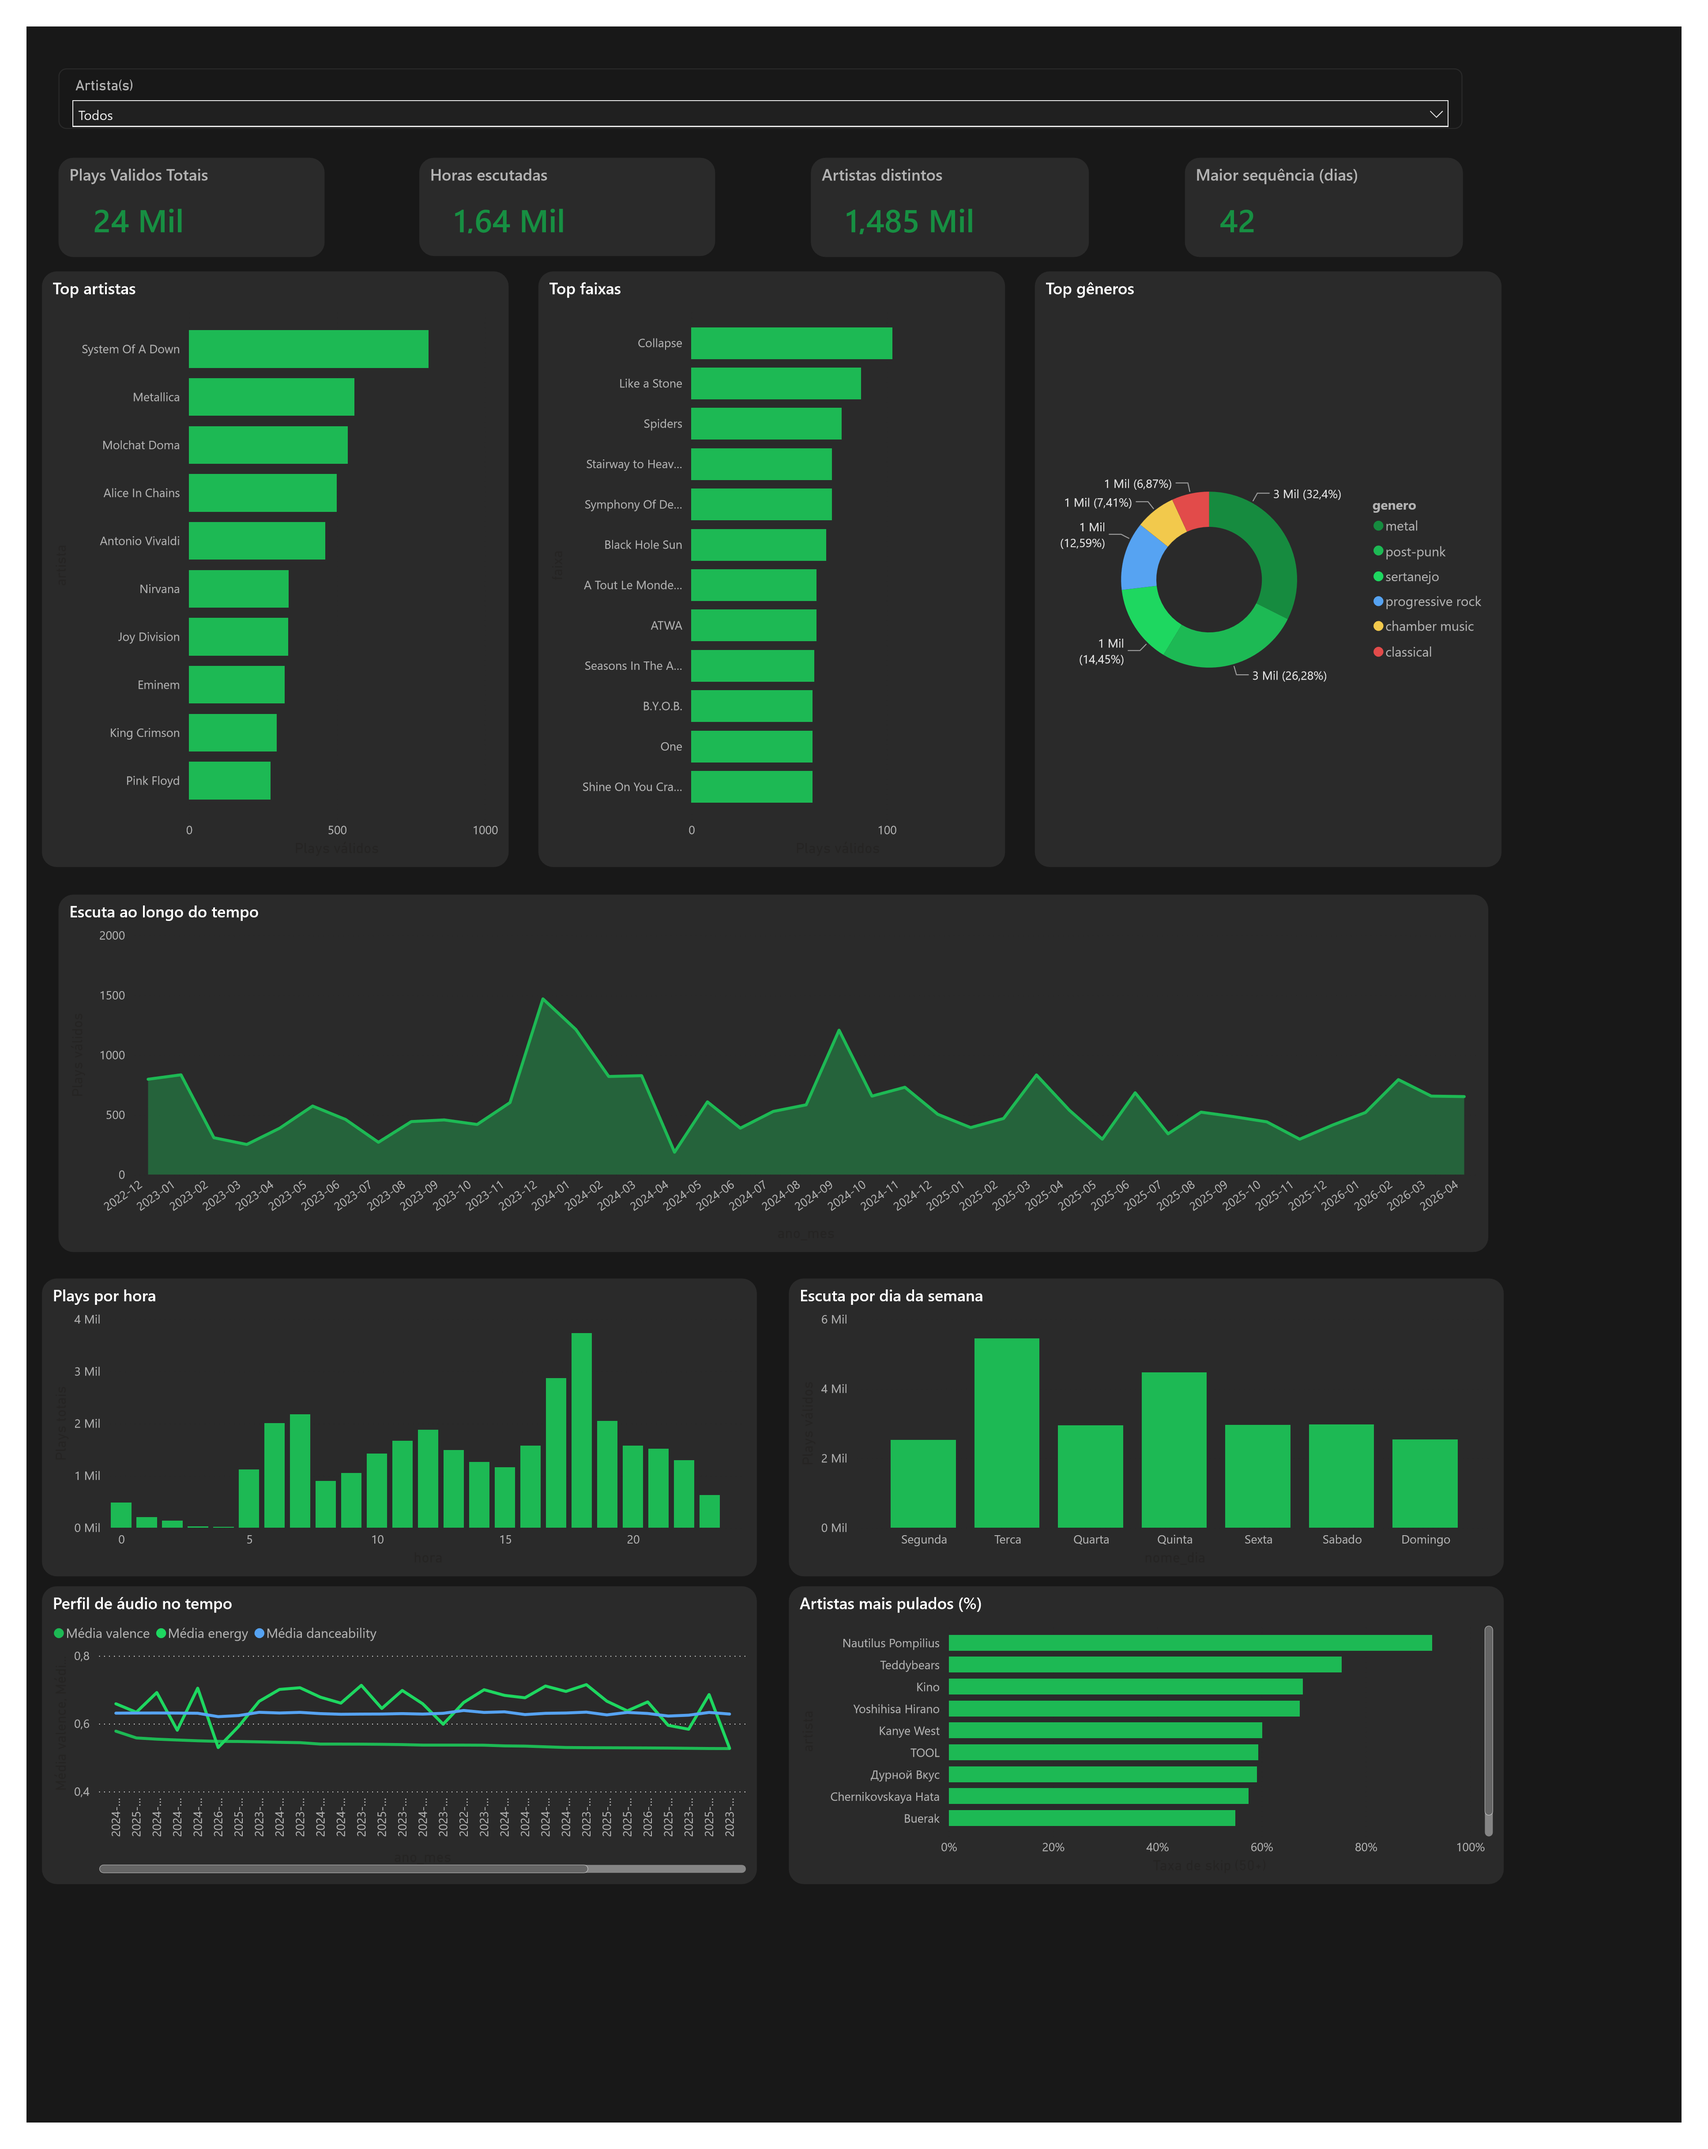
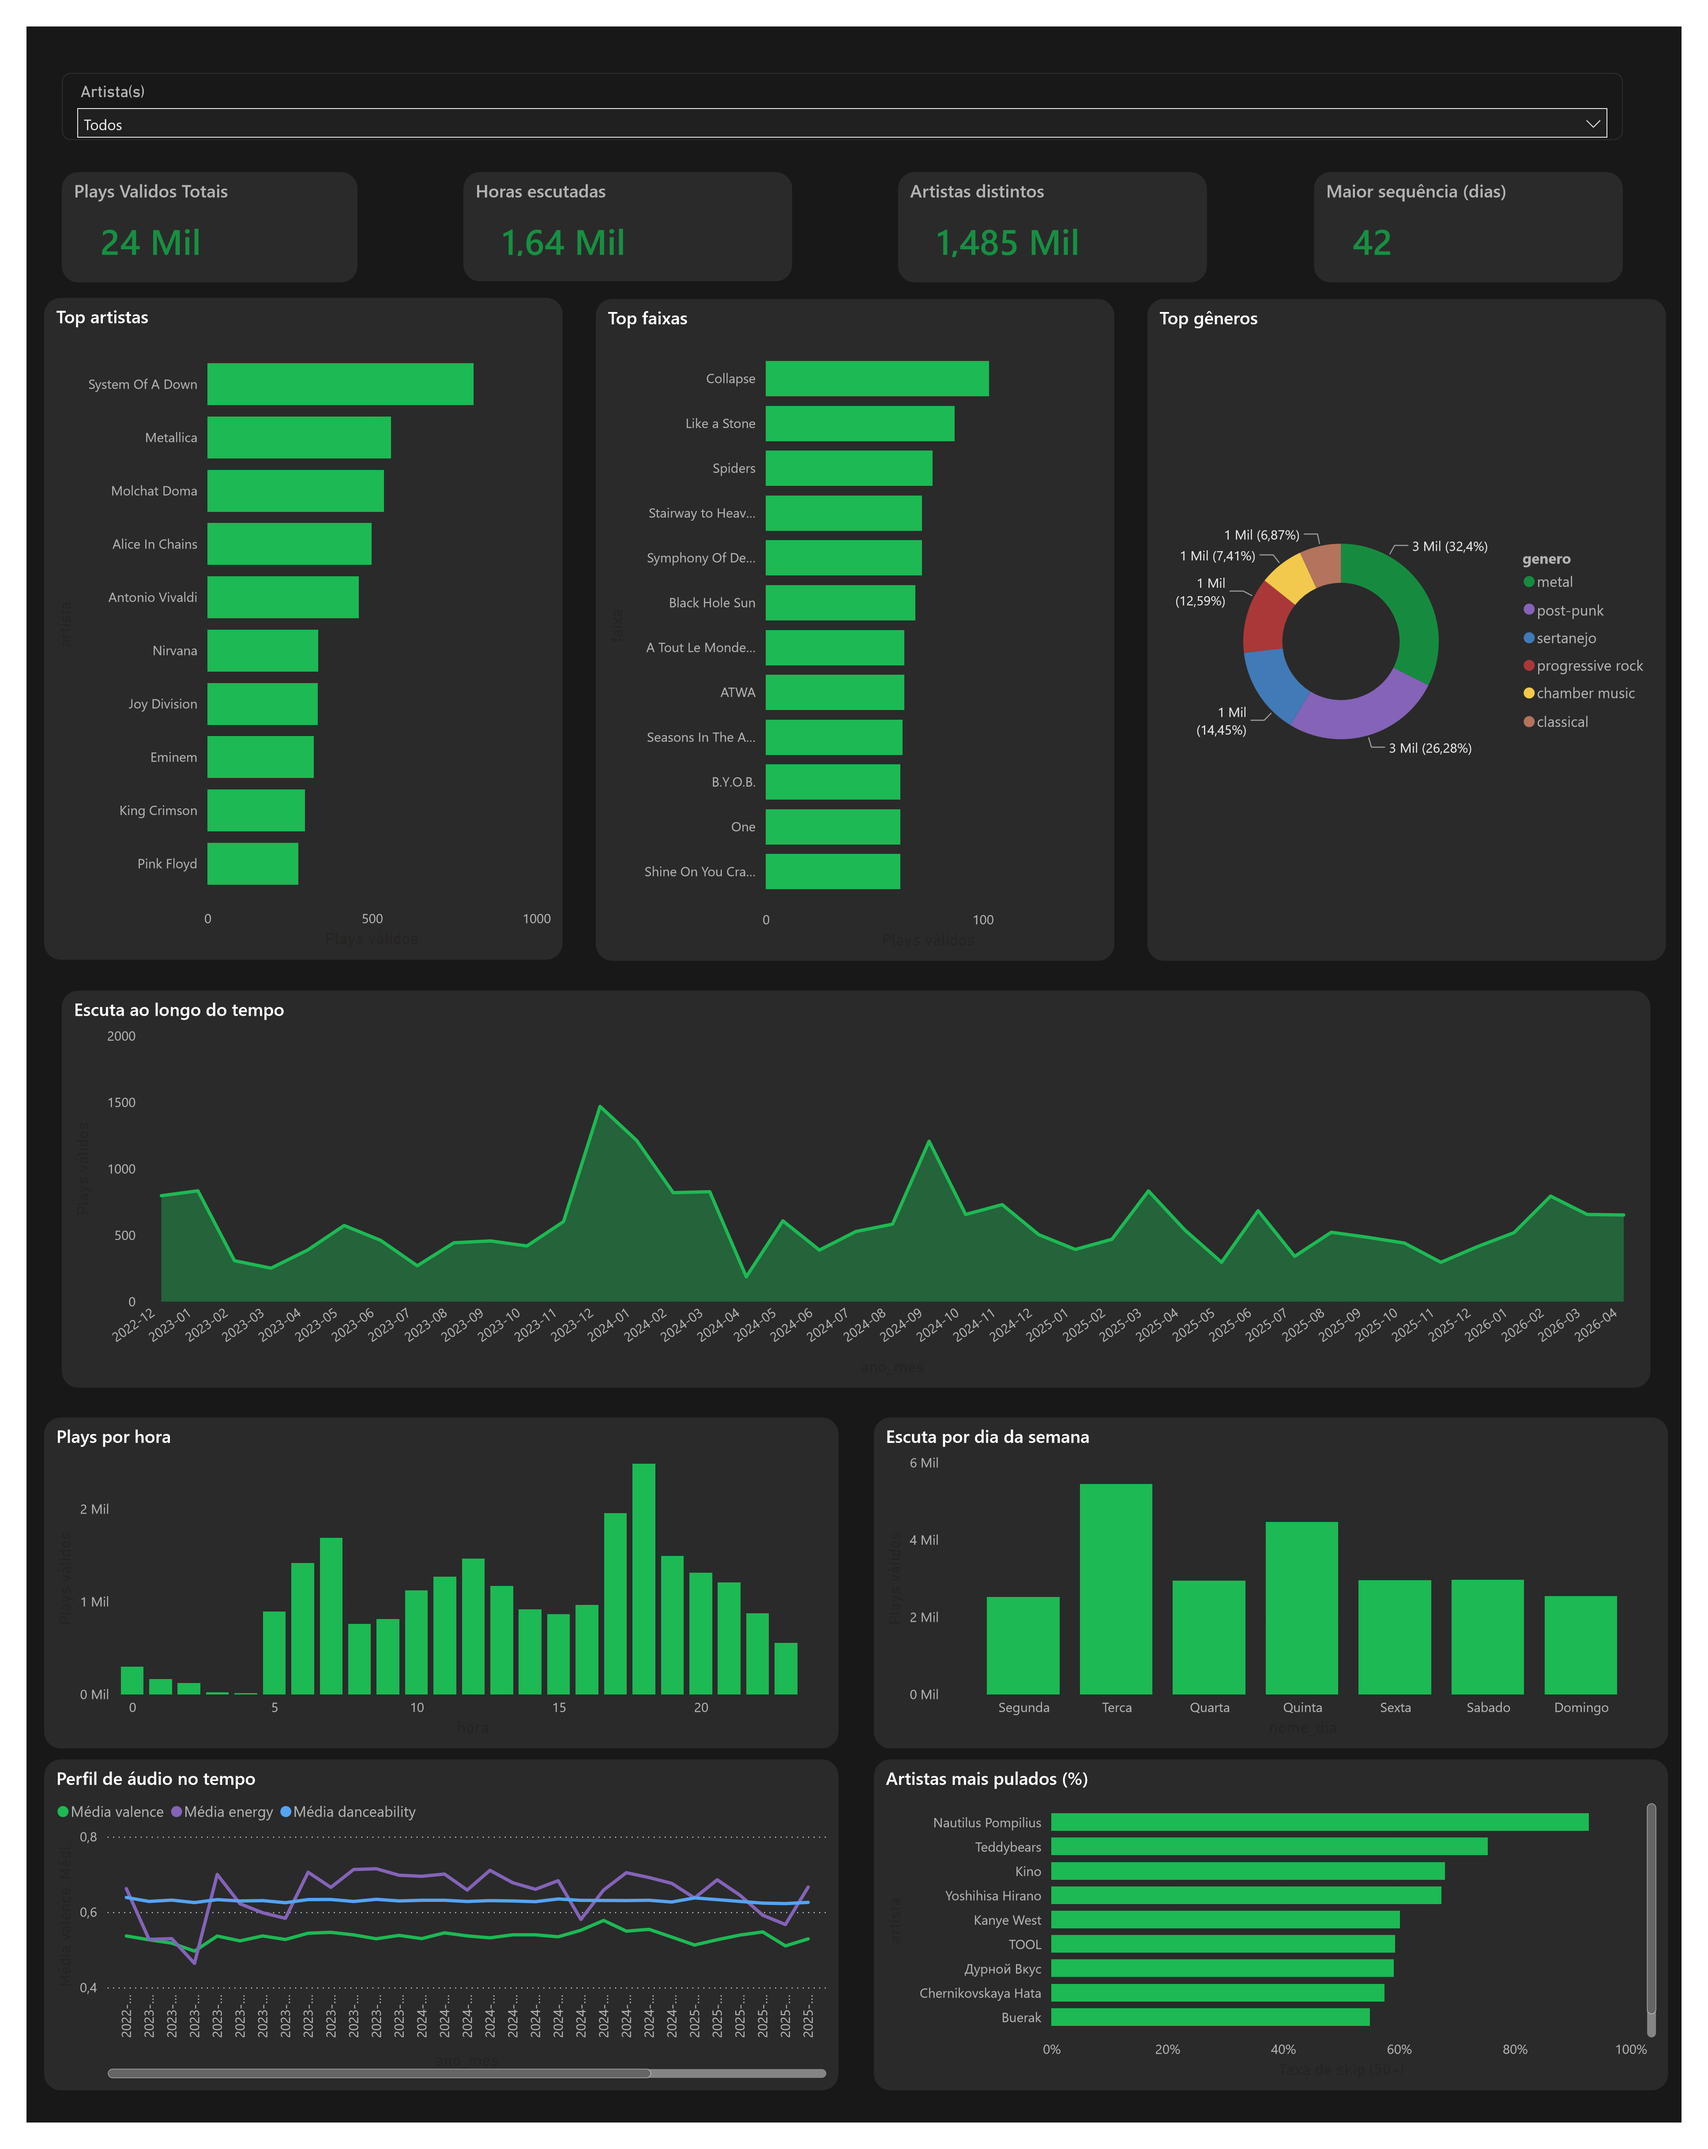
Screenshots finais do dashboard e README com a pagina 1 interativa
- Imagens re-renderizadas do PDF final (eixo do perfil de audio ordenado,
  Plays por hora usando a medida correta, pagina sem espaco sobrando)
- README: descreve a interatividade via modelo estrela e referencia views_estrela.sql

diff --git a/README.md b/README.md
@@ -12,19 +12,21 @@ O Spotify oferece um arquivo de exportação com o histórico completo de escuta
 
 ## Dashboard
 
-Dashboard interativo em **Power BI Desktop** (tema escuro, verde Spotify), conectado ao banco PostgreSQL. Duas páginas alimentadas pelas 12 views `vw_*`.
+Dashboard em **Power BI Desktop** (tema escuro, verde Spotify), conectado ao banco PostgreSQL.
 
-### Página 1 — Visão geral
+### Página 1 — Visão geral (interativa)
 ![Dashboard — Página 1](docs/dashboard-pagina1.png)
 
 KPIs (plays válidos, horas escutadas, artistas distintos, maior sequência), rankings de artistas / faixas / gêneros, linha do tempo mensal, ritmo por hora e por dia da semana, perfil de áudio ao longo do tempo e artistas mais pulados.
 
+Esta página roda sobre o **modelo estrela**: selecionar um artista no filtro do topo (ou clicar em qualquer barra) propaga o filtro para todos os visuais, que recalculam via medidas DAX.
+
 ### Página 2 — Detalhes e curiosidades
 ![Dashboard — Página 2](docs/dashboard-pagina2.png)
 
-Top álbuns, maiores sequências de escuta (com barras de dados), dias sem escuta por mês e um **heatmap** de escuta por hora × dia da semana.
+Top álbuns, maiores sequências de escuta (com barras de dados), dias sem escuta por mês e um **heatmap** de escuta por hora × dia da semana. São estatísticas do panorama completo, por isso a página é estática.
 
-> Tema versionado em [`spotify_dark_theme.json`](spotify_dark_theme.json). Os dados vêm das views definidas em [`setup_banco.sql`](setup_banco.sql).
+> Tema versionado em [`spotify_dark_theme.json`](spotify_dark_theme.json). Os dados vêm de [`setup_banco.sql`](setup_banco.sql) (views analíticas) e [`views_estrela.sql`](views_estrela.sql) (modelo dimensional).
 
 ---
 
